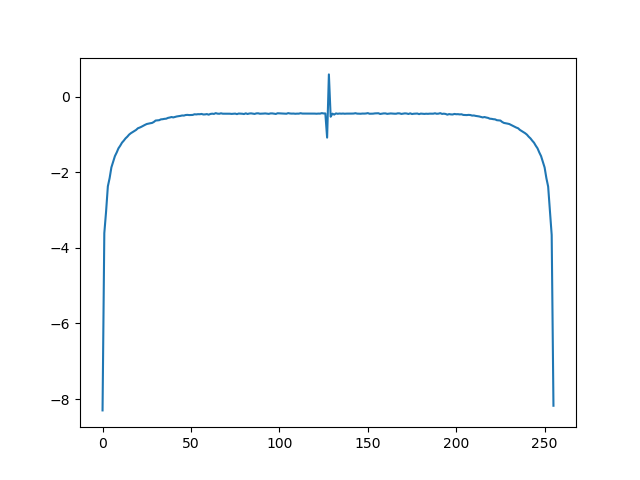
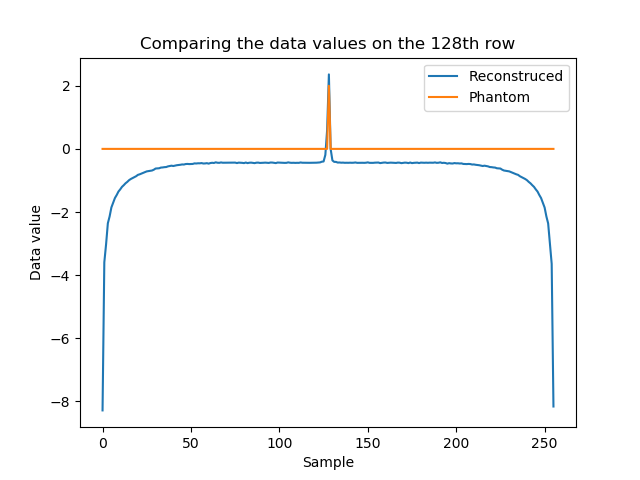
updated ct_test_example, corrected some bits and added a 4th test

diff --git a/ct_test_example.py b/ct_test_example.py
@@ -30,6 +30,7 @@ def test_1():
 	save_draw(p, 'results', 'test_1_phantom')
 
 	# how to check whether these results are actually correct?
+	# ANS : Need to display them side by side and you can check that they look geometrically similar
 
 def test_2():
 	# explain what this test is for
@@ -40,7 +41,16 @@ def test_2():
 	y = scan_and_reconstruct(s, material, p, 0.01, 256)
 
 	# save some meaningful results
-	save_plot(y[128,:], 'results', 'test_2_plot')
+	#save_plot(y[128,:], 'results', 'test_2_plot')
+	
+	plt.plot(y[127, :])
+	plt.plot(p[127, :])
+	plt.title('Comparing the data values on the 128th row')
+	plt.legend(['Reconstruced', 'Phantom'])
+	plt.ylabel('Data value')
+	plt.xlabel('Sample')
+	#plt.show()
+	plt.savefig('results/test_2_plot')
 
 	# how to check whether these results are actually correct?
 
@@ -54,8 +64,32 @@ def test_3():
 
 	# save some meaningful results
 	f = open('results/test_3_output.txt', mode='w')
-	f.write('Mean value is ' + str(np.mean(y[64:192, 64:192])))
+	f.write('Mean value is of middle part of reconstructed is ' + str(np.mean(y[64:192, 64:192])))
+	f.write("\n")
+	f.write('Mean value is of middle part of phantom is ' + str(np.mean(p[64:192, 64:192])))
 	f.close()
+
+	# how to check whether these results are actually correct?
+
+def test_4():
+	# explain what this test is for
+
+	# work out what the initial conditions should be
+	p = ct_phantom(material.name, 256, 6)
+	s = source.photon('80kVp, 2mm Al')
+	y = scan_and_reconstruct(s, material, p, 0.01, 256)
+
+	# save some meaningful results
+	#save_plot(y[128,:], 'results', 'test_2_plot')
+	
+	plt.plot(y[127, :])
+	plt.plot(p[127, :])
+	plt.title('Comparing the data values on the 128th row')
+	plt.legend(['Reconstruced', 'Phantom'])
+	plt.ylabel('Data value')
+	plt.xlabel('Sample')
+	#plt.show()
+	plt.savefig('results/test_4_plot')
 
 	# how to check whether these results are actually correct?
 
@@ -67,3 +101,5 @@ print('Test 2')
 test_2()
 print('Test 3')
 test_3()
+print('Test 4')
+test_4()
